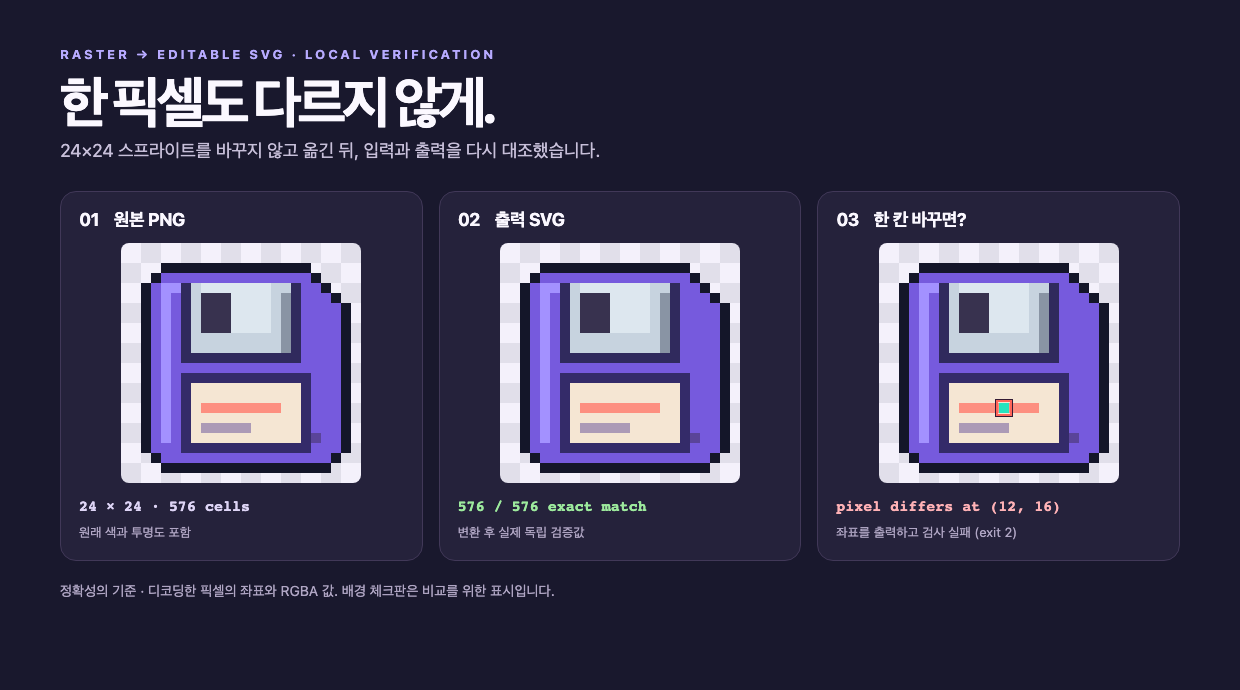
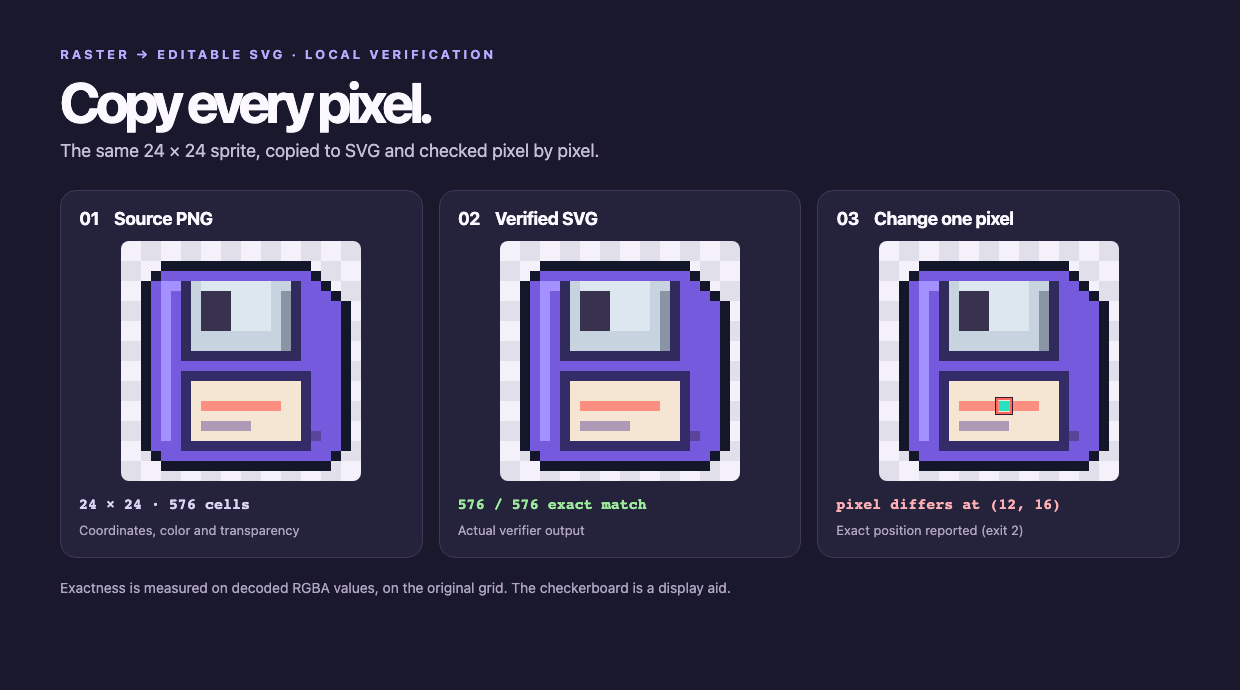
Publish English Pixelify Anything documentation

diff --git a/CONTRIBUTING.md b/CONTRIBUTING.md
@@ -1,10 +1,10 @@
-# Pixel Eye 기여 안내
+# Contributing to Pixelify Anything
 
-Pixel Eye는 PNG/JPEG/WebP를 로컬에서 디코딩하고, 같은 좌표와 RGBA 값을 SVG 사각형으로 내보냅니다. 모델 호출, 이미지 업로드, 자동 보정은 하지 않습니다. 이미지 변환의 기준과 지원 범위는 [출력 계약](docs/limits.md)을 참고하세요.
+Pixelify Anything is a local raster-to-SVG copier with a separate verifier. Keep changes within the [output contract](docs/limits.md) unless a new contract is explicitly discussed.
 
-## 시작하기
+## Run the tests
 
-저장소 루트에서 Python 3.10 이상을 사용합니다. 가상 환경을 활성화한 뒤 아래 명령을 실행하세요.
+Use Python 3.10 or later, in a virtual environment:
 
 ```sh
 python -m venv .venv
@@ -14,18 +14,18 @@ python -m pip install -r requirements.txt
 python -m unittest -v
 ```
 
-기여 안내 작성 시 확인한 테스트는 17개입니다. 변환기나 검증기를 수정할 때는 기존 테스트에 더해 **바뀐 조건에서 통과해야 할 사례와 실패해야 할 사례**를 추가하세요. 특히 좌표 원점, 투명도, 가로 묶음, 기존 파일 보존을 확인합니다.
+For encoder or verifier changes, cover both a passing and a failing case. Check coordinates, alpha, run boundaries, and existing-file preservation as applicable.
 
-## 버그 신고와 변경 제안
+## Report a bug or propose a change
 
-- 운영체제, Python/Pillow 버전, 실행 명령, 기대 결과와 실제 결과를 적어 주세요. 픽셀 오류는 첫 불일치 좌표와 마스크 또는 색/알파 중 무엇이 달랐는지 적으면 도움이 됩니다.
-- 실제 작업 이미지 대신 직접 만든 작은 테스트 패턴으로 재현해 주세요. 비공개 사진, 고객 파일, 제3자 스프라이트, 원본에서 변환한 SVG/PNG, 메타데이터가 담긴 로그는 이슈·PR에 올리지 마세요. 자료를 공개할 권리가 명확한 경우에만 예제를 첨부합니다.
-- 변경 하나당 목적 하나를 설명하고, 테스트 명령과 결과를 PR에 남겨 주세요. 검증 조건을 약화시키는 변경, 출력 계약 변경 또는 외부 접근 추가는 구현하기 전에 먼저 제안해 주세요.
-- 저장소에 별도 라이선스 파일이 없습니다. 이 안내는 사용·재배포 권한 또는 별도 기여 약관을 부여하지 않습니다.
+- Include OS, Python and Pillow versions, the exact command, and expected versus actual output. For a mismatch, include the first affected coordinate and RGBA.
+- Use a small, self-authored image to reproduce the problem. Do not attach private or third-party images, derived SVGs, or sensitive logs.
+- Keep one change per PR. Include tests and flag changes to verification behavior, the format contract, or network access.
+- The repository does not yet include an explicit license. This guide does not itself grant rights to use, distribute, or relicense the code or assets.
 
-## 한 픽셀 오류 재현
+## Reproduce a one-pixel failure
 
-아래 명령은 매번 새 임시 폴더에 직접 만든 2×1 테스트 이미지를 씁니다. 먼저 정상 SVG를 검증한 뒤 오른쪽 픽셀만 바꿉니다. macOS/Linux 셸 기준입니다.
+This creates a 2×1 image, checks the original SVG, then changes one pixel. Use macOS or Linux shell commands:
 
 ```sh
 WORK=$(mktemp -d)
@@ -51,6 +51,6 @@ PY
 python verify_pixels.py --root "$WORK" fixture.png bad.svg
 ```
 
-마지막 검증은 `pixel differs at (1, 0)`을 표시하고 종료 코드 2를 반환해야 합니다.
+The last command must report `pixel differs at (1, 0)` and exit with code 2.
 
-구성 참고: [GitHub Docs](https://docs.github.com/en/communities/setting-up-your-project-for-healthy-contributions/setting-guidelines-for-repository-contributors)의 루트 기여 안내 파일 방식과 [Pillow 테스트 안내](https://github.com/python-pillow/Pillow/blob/main/Tests/README.rst)의 테스트 실행법 분리 방식을 따랐습니다. 명령, 예제 및 기준은 이 저장소에 맞춰 작성했습니다.
+Structure references: [GitHub contributor guidelines](https://docs.github.com/en/communities/setting-up-your-project-for-healthy-contributions/setting-guidelines-for-repository-contributors) and [Pillow test instructions](https://github.com/python-pillow/Pillow/blob/main/Tests/README.rst).

diff --git a/README.md b/README.md
@@ -1,18 +1,18 @@
-# Copy Every Pixel
+# Pixelify Anything
 
-![실제 변환 결과: 원본 PNG, 모든 픽셀이 일치하는 출력 SVG, (12, 16)의 1픽셀 오류 검출](assets/pixel-proof.png)
+**Copy every pixel. Verify every pixel.**
 
-**픽셀은 그대로. 좌표도, 색도, 투명도도.**
+![An original 24 by 24 sprite, its identical SVG copy, and one changed pixel flagged by the verifier](assets/pixel-proof.png)
 
-이 도구는 로컬 PNG·JPEG·WebP 하나를 받아, 디코딩한 픽셀을 **같은 좌표와 RGBA의 SVG 사각형**으로 옮깁니다. 기본은 한 픽셀당 1×1 사각형 하나. 변환기는 결과를 다시 읽어 입력과 대조하고, 차이가 나면 출력 파일을 저장하지 않습니다. 이미지 업로드나 AI 호출은 없습니다.
+Turn a local PNG, JPEG, or WebP into editable SVG without redrawing it. Each decoded pixel becomes a 1×1 rectangle with the same coordinates, color, and alpha. Pixelify Anything checks each cell before writing the output and refuses to save if anything differs. No AI, no image uploads.
 
-## 실제 예시
+## Try it
 
-| 원본 PNG | 출력 SVG | 검사 결과 |
+| Input | Output | Proof |
 | :--- | :--- | :--- |
-| [24×24 스프라이트](examples/sprite-24.png) | [1×1 사각형 576개](examples/sprite-24.svg) | [576 / 576 일치](examples/sprite-24.result.json) |
+| [24×24 PNG sprite](examples/sprite-24.png) | [576 SVG rectangles](examples/sprite-24.svg) | [576 / 576 cells match](examples/sprite-24.result.json) |
 
-예시를 직접 돌려 보면 파일까지 같은지 확인할 수 있습니다. Python 3.10 이상, Pillow가 필요합니다. macOS/Linux 명령 기준입니다.
+Requires Python 3.10+ and Pillow. These commands use a macOS or Linux shell.
 
 ```sh
 git clone https://github.com/taejs/pixel-eye.git
@@ -30,14 +30,14 @@ cmp examples/sprite-24.svg eye-rebuilt.svg
 {"decoded_pixels": 576, "matched_rect_cells": 576, "mismatches": 0, "omitted_transparent_cells": 0}
 ```
 
-`--mode run`은 같은 줄의 연속된 동일 RGBA만 가로로 합칩니다. 숨겨진 투명 픽셀의 RGB까지 보존하려면 기본값을 쓰세요. 완전 투명 픽셀을 생략하려면 변환에 `--alpha omit-transparent`, 검증에도 `--omit-transparent`를 지정합니다. 기존 출력은 덮어쓰지 않습니다.
+Change a single rectangle's fill and the verifier reports its exact coordinates. [Reproduce a one-pixel failure →](CONTRIBUTING.md#reproduce-a-one-pixel-failure)
 
-## 어디까지 똑같나요?
+## Options
 
-- **같음:** 디코딩한 입력의 좌표와 RGBA 값. 24×24 예시, 전체 알파 바이트, 1920×1080 입력, 누락·중복·한 픽셀 변조를 테스트합니다.
-- **다를 수 있음:** 브라우저 확대·색 관리 결과. 압축 전 JPEG/WebP 원본이나 이미 확대된 그림의 숨은 격자를 복원하지 않습니다.
-- **하지 않음:** 자동 리터치, 테두리 정리, 새 그림·포즈 생성. 정지 이미지 전용이며 입력은 32 MiB, 디코딩한 격자는 최대 4,194,304픽셀입니다.
+- `--mode run` merges only horizontally adjacent pixels with identical RGBA.
+- `--alpha omit-transparent` drops fully transparent cells. Pass `--omit-transparent` to the verifier when using this mode. Default mode preserves their hidden RGB.
+- The tool accepts still images within 32 MiB and 4,194,304 decoded pixels. It never overwrites an existing output.
 
-자세한 [출력 계약과 한계](docs/limits.md) · [기여 가이드](CONTRIBUTING.md) · [변경 기록](CHANGELOG.md)
+**What “exact” means.** The decoded pixels match on the input grid. This does not reverse JPEG compression, recover a hidden low-resolution sprite, change the art style, or reproduce a color-managed screen rendering. See the [output contract](docs/limits.md).
 
-Pixel Eye is a local, deterministic raster-to-SVG copy and verification tool. Exactness means decoded RGBA on the original grid, not a reconstructed image or a display screenshot.
+[Contributing](CONTRIBUTING.md) · [Changelog](CHANGELOG.md) · [Project examples](examples/)

diff --git a/docs/limits.md b/docs/limits.md
@@ -1,18 +1,18 @@
-# 출력 계약과 한계
+# Output contract and limits
 
-## 무엇을 보존하나요?
+## What is preserved?
 
-비교 대상은 **현재 Pillow가 입력을 디코딩한 뒤 얻은 RGBA 픽셀값과 좌표**입니다. 이미지의 아래쪽에 어떤 원본 스프라이트 격자가 있었는지 추정하지 않습니다. JPEG·손실 WebP의 압축 흔적도 그대로 남고, EXIF 방향 보정과 ICC 색 변환을 하지 않습니다.
+Exactness is defined by **the original grid and the RGBA values decoded by Pillow**. JPEG and lossy WebP artifacts remain. The tool does not apply EXIF orientation or ICC color transforms.
 
-- 기본 `rect`: 픽셀마다 1×1 사각형을 생성합니다.
-- `run`: 같은 행에서 RGBA가 모두 같은 이웃 픽셀만 가로로 합칩니다. 보간·축소·벡터 윤곽 추출이 아닙니다.
-- 기본 투명도 보존 모드는 투명 픽셀의 RGB도 기록합니다. `--alpha omit-transparent`를 선택하면 완전 투명 셀을 생략합니다. 이 경우 독립 검증에도 `--omit-transparent`를 지정해야 합니다.
-- 검증기 `verify_pixels.py`는 행 순서의 지정된 SVG 형식만 해석합니다. 임의 SVG, 브라우저 스크린샷, 화면 배율이나 디스플레이 색은 검증하지 않습니다. 투명 픽셀의 숨은 RGB를 렌더러가 잃을 수 있습니다.
+- In `rect` mode, every cell has a 1×1 rectangle.
+- In `run` mode, only consecutive cells with identical RGBA are merged, within one row.
+- Default mode preserves the hidden RGB values of fully transparent cells. Use `--alpha omit-transparent` to skip them, and `--omit-transparent` when verifying that output.
+- The independent checker accepts the canonical row-major SVG subset this tool emits, not arbitrary SVG. Display rendering is outside the contract; renderers may discard invisible RGB during premultiplication.
 
-## 파일과 실행 환경
+## Inputs and filesystem
 
-정지 PNG(채널당 최대 8비트) 또는 Pillow가 지원 모드로 디코딩한 정지 JPEG/WebP만 처리합니다. 입력 파일은 최대 32 MiB, 디코딩한 격자는 최대 4,194,304픽셀입니다. 기본 모드 SVG는 해상도에 따라 매우 커질 수 있으므로 미리보기용 파일과 구분하세요.
+Still PNG (at most 8 bits per channel), JPEG, and still WebP are accepted where the local Pillow build supports the codec. The limits are 32 MiB encoded and 4,194,304 decoded pixels. Large per-cell SVGs may be expensive to edit in a browser; try `run` for long flat rows.
 
-명령은 선택한 로컬 파일만 읽으며 입력과 출력은 기존 작업 루트 안의 상대 경로입니다. 출력 폴더는 먼저 만들고, 기존 SVG는 덮어쓰지 않습니다. 파일시스템은 하드 링크를 지원해야 합니다. 경로 제한은 신뢰하는 작업 폴더에서 사용하는 기능이며 다른 프로세스와 경쟁하는 보안 격리가 아닙니다.
+The CLI only opens the selected local input. Supply relative paths inside a trusted working root. The output folder must already exist, and the filesystem must support hard links. The tool never overwrites a destination. Path checks are not a security boundary against another process changing parent directories concurrently.
 
-본 모듈은 리터치, 경계 정리, 스타일 변환, 새 포즈 생성 또는 픽셀아트 복구용이 아닙니다. 이슈·예제에는 공개 권한을 가진 테스트 패턴만 사용하세요.
+This is a copier and verifier, not a retoucher, art generator, pose editor, or reconstruction tool.

diff --git a/CHANGELOG.md b/CHANGELOG.md
@@ -1,10 +1,12 @@
-# 변경 기록
+# Changelog
 
 ## 0.2.0
-- 공개 예제로 쓸 16×16 로고와 독립 검증 결과를 추가했습니다.
-- 정지 WebP와 1920×1080 입력을 지원 범위에 넣었습니다.
-- 기여 가이드, 차이 재현 방법, 제한 사항, GitHub 테스트 작업을 추가했습니다.
+
+- Added still WebP and full-HD input support.
+- Added the original sprite example, independent verification, contributor docs, issue templates, and CI.
+- Published English release materials under the Pixelify Anything name. The existing repository URL and Python entrypoint are unchanged.
 
 ## 0.1.0
-- PNG/JPEG의 디코딩된 RGBA를 1×1 사각형 또는 가로 런으로 저장합니다.
-- 출력 공개 직전 좌표와 RGBA를 다시 비교하고, 기존 SVG를 덮어쓰지 않습니다.
+
+- Added PNG/JPEG copy to one-cell or run-length SVG rectangles.
+- Added per-cell validation and refuse-to-overwrite output handling.

diff --git a/.github/ISSUE_TEMPLATE/pixel-mismatch.md b/.github/ISSUE_TEMPLATE/pixel-mismatch.md
@@ -1,12 +1,12 @@
 ---
-name: 픽셀 불일치
-about: 직접 만든 작은 이미지로 재현 가능한 좌표·색·알파 문제
-title: "[픽셀 불일치] "
+name: Pixel mismatch
+about: Report an exact coordinate, color, or alpha mismatch
+title: "[Pixel mismatch] "
 ---
 
-- 설치 환경: OS, Python, Pillow 버전
-- 명령과 옵션:
-- 최초 불일치 좌표 및 기대/실제 RGBA:
-- 로컬에서 직접 만든 최소 재현 이미지를 만드는 코드:
+- OS, Python and Pillow versions:
+- Command and flags:
+- First mismatching coordinate and expected/actual RGBA:
+- Code to create a minimal, self-authored input:
 
-비공개·제3자 이미지는 첨부하지 마세요. 예제는 공개 권한이 있는 경우만 첨부해 주세요.
+Do not attach private or third-party art.

diff --git a/assets/PROVENANCE.md b/assets/PROVENANCE.md
@@ -1,3 +1,5 @@
 # Logo and example provenance
 
 The 16×16 mint iris, sparkle, and blush mark was drawn on a new native pixel grid for Pixel Eye. No third-party logo or reference art was traced, downloaded or copied. The public example input is that same original mark. The SVG example was made from the PNG with Pixel Eye; the preview uses integer-scale nearest-neighbor enlargement on two backgrounds.
+
+The 24×24 purple floppy-disk sprite is an original demonstration drawn on the native grid. The screenshot is a local browser capture of that PNG, its verified SVG export, and an intentionally edited SVG. Any earlier eye artwork is a historical test fixture, not the current branding.

diff --git a/.github/pull_request_template.md b/.github/pull_request_template.md
@@ -1,6 +1,6 @@
-## 변경 내용
+## Change
 
-## 검증
+## Validation
 - [ ] `python -m unittest -v`
-- [ ] 입출력 계약이 바뀌었다면 한계 문서도 갱신
-- [ ] 새 이미지/재현 자료는 직접 만들었거나 공개 권한을 확인함
+- [ ] Updated the output contract if behavior changed
+- [ ] Any new assets are self-authored or cleared for public reuse
